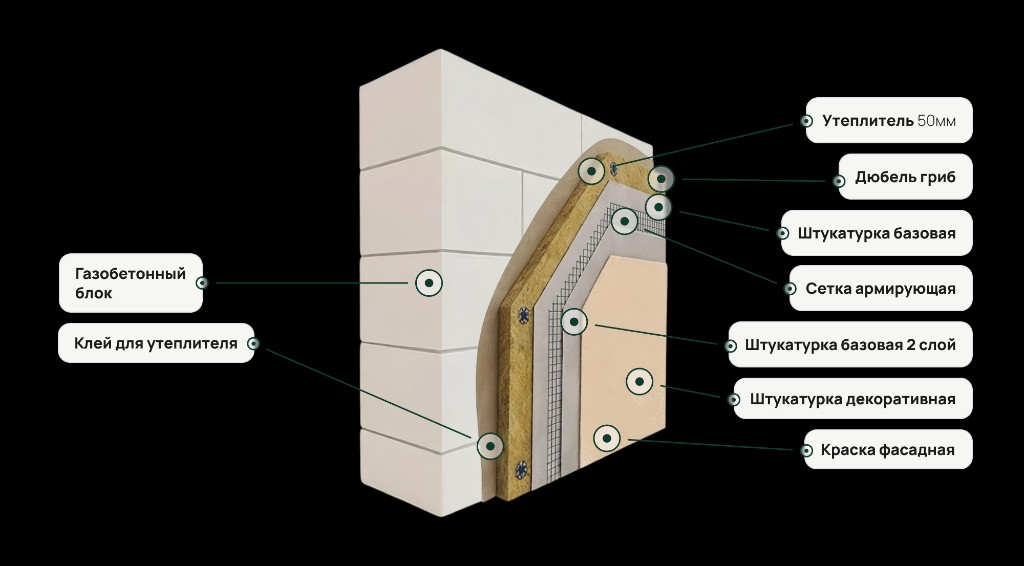
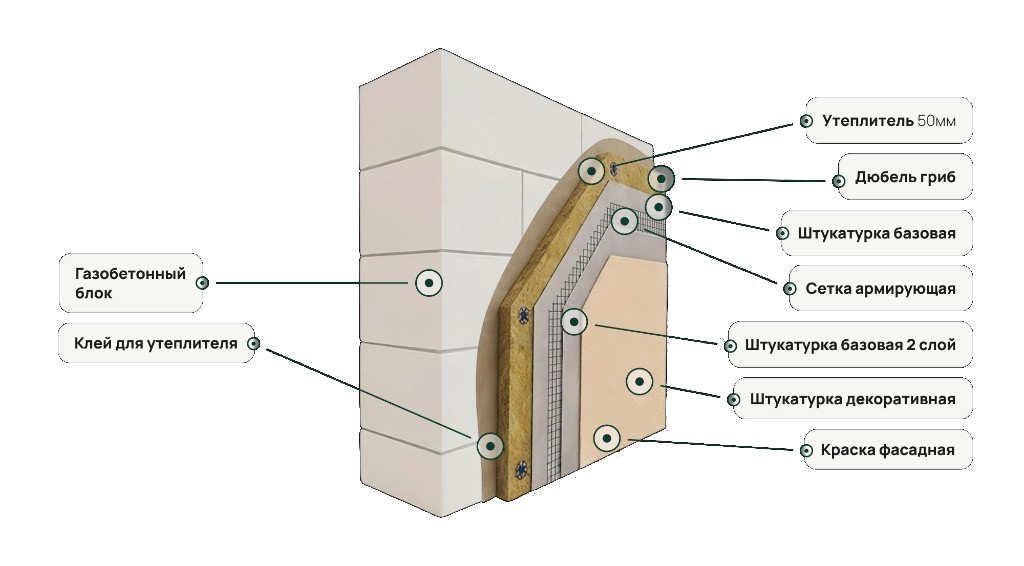
fix: enlarge calculator diagrams and speed up home LCP
Show facade cutaways full-width with transparent backgrounds, and keep home LCP on the H1 by skipping font preload and competing image priority.

diff --git a/frontend/src/components/sections/banner.tsx b/frontend/src/components/sections/banner.tsx
@@ -19,7 +19,7 @@ import { useTheme } from "@/lib/theme-context";
 import { HOME_HERO_BANNER_ID } from "@/lib/site-anchors";
 import type { HomeHeroBanner } from "@/lib/home-hero-banner-schema";
 import { HOME_HERO_CTAS } from "@/lib/home-hero-first-screen";
-import { HOME_HERO_LCP_QUALITY, HOME_HERO_LCP_WIDTH } from "@/lib/home-hero-lcp";
+import { HOME_HERO_LCP_QUALITY, HOME_HERO_LCP_WIDTH, homeHeroCarouselImageLoading } from "@/lib/home-hero-lcp";
 import { buildImagePrefetchSrc } from "@/lib/image-loading";
 import { cn } from "@/lib/utils";
 
@@ -28,9 +28,9 @@ const BADGE_ICONS = [Award, Home, ShieldCheck, ClipboardCheck] as const;
 /** Едва заметная «стеклянная» обводка на тёмном баннере */
 const edgeGlass = "border border-white/[0.07]";
 
-/** Матовый фон как у промо-карточки справа: полупрозрачный + лёгкий blur. */
+/** Матовый фон как у промо-карточки справа: полупрозрачный, без blur (blur задерживает LCP H1). */
 const matteGlass =
-  "border border-white/[0.07] bg-black/58 shadow-[inset_0_1px_0_rgba(255,255,255,0.04),0_12px_40px_rgba(0,0,0,0.35)] backdrop-blur-sm";
+  "border border-white/[0.07] bg-black/58 shadow-[inset_0_1px_0_rgba(255,255,255,0.04),0_12px_40px_rgba(0,0,0,0.35)]";
 const matteGlassHover = "hover:border-white/15 hover:bg-black/68";
 
 /** Интервал автопрокрутки промо-карусели на баннере. */
@@ -244,7 +244,7 @@ export function BannerSection({
 
             <div
               className={cn(
-                "mt-4 grid max-w-2xl grid-cols-1 gap-2 rounded-2xl bg-black/30 p-1.5 shadow-lg shadow-black/20 backdrop-blur-sm min-[420px]:grid-cols-3 min-[420px]:gap-1.5 sm:gap-2 sm:p-1.5",
+                "mt-4 grid max-w-2xl grid-cols-1 gap-2 rounded-2xl bg-black/30 p-1.5 shadow-lg shadow-black/20 min-[420px]:grid-cols-3 min-[420px]:gap-1.5 sm:gap-2 sm:p-1.5",
                 edgeGlass,
               )}
             >
@@ -291,7 +291,7 @@ export function BannerSection({
                 }
               }}
               className={cn(
-                "rounded-2xl bg-black/58 shadow-[0_24px_72px_rgba(0,0,0,0.42),inset_0_1px_0_rgba(255,255,255,0.04)] backdrop-blur-sm outline-none focus-visible:ring-2 focus-visible:ring-white/15 focus-visible:ring-offset-2 focus-visible:ring-offset-transparent sm:rounded-[1.25rem]",
+                "rounded-2xl bg-black/58 shadow-[0_24px_72px_rgba(0,0,0,0.42),inset_0_1px_0_rgba(255,255,255,0.04)] outline-none focus-visible:ring-2 focus-visible:ring-white/15 focus-visible:ring-offset-2 focus-visible:ring-offset-transparent sm:rounded-[1.25rem]",
                 edgeGlass,
               )}
             >
@@ -335,6 +335,7 @@ export function BannerSection({
                         index === (slideIndex - 1 + promos.length) % promos.length;
                       // Не монтируем дальние слайды — иначе на 4G качаются все промо сразу.
                       if (!isActive && !isAdjacent) return null;
+                      const imageLoading = homeHeroCarouselImageLoading(isActive);
                       return (
                         <CmsImage
                           key={promo.image}
@@ -343,9 +344,9 @@ export function BannerSection({
                           fill
                           quality={75}
                           sizes="(max-width: 1023px) 96vw, 380px"
-                          priority={isActive}
-                          fetchPriority={isActive ? "high" : "low"}
-                          loading={isActive ? "eager" : "lazy"}
+                          priority={imageLoading.priority}
+                          fetchPriority={imageLoading.fetchPriority}
+                          loading={imageLoading.loading}
                           aria-hidden={!isActive}
                           className={cn(
                             "object-cover object-center transition-opacity duration-500 ease-out",
@@ -365,7 +366,7 @@ export function BannerSection({
             >
               <div
                 className={cn(
-                  "flex shrink-0 items-center gap-2 rounded-full bg-black/48 px-2 py-1.5 backdrop-blur-sm sm:gap-3 sm:px-3 sm:py-2",
+                  "flex shrink-0 items-center gap-2 rounded-full bg-black/48 px-2 py-1.5 sm:gap-3 sm:px-3 sm:py-2",
                   edgeGlass,
                 )}
               >
@@ -402,7 +403,7 @@ export function BannerSection({
             <div
               key={text}
               className={cn(
-                "flex min-h-[44px] min-w-0 items-center gap-2.5 overflow-hidden rounded-xl bg-black/35 px-3 py-2 shadow-md shadow-black/25 backdrop-blur-sm sm:min-h-[48px] sm:gap-3 sm:px-3.5 sm:py-2.5",
+                "flex min-h-[44px] min-w-0 items-center gap-2.5 overflow-hidden rounded-xl bg-black/35 px-3 py-2 shadow-md shadow-black/25 sm:min-h-[48px] sm:gap-3 sm:px-3.5 sm:py-2.5",
                 edgeGlass,
               )}
             >

diff --git a/frontend/src/components/sections/projects-constructor-section.tsx b/frontend/src/components/sections/projects-constructor-section.tsx
@@ -11,6 +11,9 @@ import {
   HOME_MATERIALS_SECTION_EYEBROW,
   HOME_MATERIALS_SECTION_SUBTITLE,
   HOME_MATERIALS_SECTION_TITLE,
+  HOME_MATERIAL_CARD_IMAGE_PRIORITY,
+  HOME_MATERIAL_CARD_IMAGE_QUALITY,
+  HOME_MATERIAL_CARD_IMAGE_SIZES,
   HOME_MATERIAL_CARDS,
 } from "@/lib/home-materials-section";
 import { useHouseConstructionCalculatorConfig } from "@/lib/use-house-construction-calculator-config";
@@ -175,7 +178,7 @@ export function ProjectsConstructorSection() {
         </div>
 
         <div className="grid gap-5 sm:grid-cols-2 sm:gap-4 lg:grid-cols-3 lg:gap-5">
-          {materialCards.map((card, i) => (
+          {materialCards.map((card) => (
             <article
               key={card.id}
               className={cn(
@@ -188,9 +191,10 @@ export function ProjectsConstructorSection() {
                   src={card.image}
                   alt={card.title}
                   fill
-                  sizes="(max-width: 640px) 100vw, (max-width: 1024px) 50vw, 560px"
+                  sizes={HOME_MATERIAL_CARD_IMAGE_SIZES}
+                  quality={HOME_MATERIAL_CARD_IMAGE_QUALITY}
                   className="object-contain object-center transition duration-700 ease-out hover:scale-[1.02]"
-                  priority={i === 0}
+                  priority={HOME_MATERIAL_CARD_IMAGE_PRIORITY}
                 />
                 <div
                   className="pointer-events-none absolute inset-x-0 bottom-0 h-2/5 bg-gradient-to-t from-black/45 to-transparent"

diff --git a/frontend/src/components/construction/project-calculator-catalog-options.tsx b/frontend/src/components/construction/project-calculator-catalog-options.tsx
@@ -340,7 +340,9 @@ function OptionWorkScope({
       <div
         className={cn(
           "grid gap-2.5 sm:items-start sm:gap-4",
-          src ? "grid-cols-1 sm:grid-cols-[minmax(120px,160px)_minmax(0,1fr)]" : "grid-cols-1",
+          src && !isDiagram
+            ? "grid-cols-1 sm:grid-cols-[minmax(120px,160px)_minmax(0,1fr)]"
+            : "grid-cols-1",
         )}
       >
         {src ? (
@@ -348,7 +350,7 @@ function OptionWorkScope({
             className={cn(
               "relative mx-auto w-full overflow-hidden rounded-lg sm:mx-0",
               isDiagram
-                ? "aspect-[4/3] max-w-[280px] bg-transparent sm:aspect-square sm:max-w-none"
+                ? "aspect-[1024/566] max-w-none bg-transparent sm:aspect-[1024/566]"
                 : "aspect-[4/3] max-w-[280px] bg-[var(--stone)] sm:max-w-none",
             )}
           >
@@ -358,7 +360,7 @@ function OptionWorkScope({
               fill
               unoptimized={isDiagram}
               className={cn(isDiagram ? "object-contain object-center" : "object-cover object-center")}
-              sizes="(max-width: 640px) 280px, 160px"
+              sizes={isDiagram ? "(max-width: 640px) 100vw, 640px" : "(max-width: 640px) 280px, 160px"}
             />
             {zoomable && !isDiagram ? (
               <button

diff --git a/frontend/src/lib/home-materials-section.test.ts b/frontend/src/lib/home-materials-section.test.ts
@@ -1,6 +1,9 @@
 import { describe, expect, it } from "vitest";
 
 import {
+  HOME_MATERIAL_CARD_IMAGE_PRIORITY,
+  HOME_MATERIAL_CARD_IMAGE_QUALITY,
+  HOME_MATERIAL_CARD_IMAGE_SIZES,
   HOME_MATERIALS_SECTION_SUBTITLE,
   HOME_MATERIALS_SECTION_TITLE,
   HOME_MATERIAL_CARDS,
@@ -50,5 +53,13 @@ describe("home-materials-section", () => {
     const descriptions = HOME_MATERIAL_CARDS.map((c) => c.description);
     expect(new Set(descriptions).size).toBe(3);
     expect(HOME_MATERIAL_CARDS[2]?.description).toContain("2.1 НФ");
+  });
+
+  it("фото карточек не competing LCP: без priority, q=60, sizes под колонку", () => {
+    expect(HOME_MATERIAL_CARD_IMAGE_PRIORITY).toBe(false);
+    expect(HOME_MATERIAL_CARD_IMAGE_QUALITY).toBe(60);
+    expect(HOME_MATERIAL_CARD_IMAGE_SIZES).toContain("92vw");
+    expect(HOME_MATERIAL_CARD_IMAGE_SIZES).not.toContain("100vw");
+    expect(HOME_MATERIAL_CARD_IMAGE_SIZES).toContain("380px");
   });
 });

diff --git a/frontend/src/lib/home-hero-lcp.test.ts b/frontend/src/lib/home-hero-lcp.test.ts
@@ -5,6 +5,7 @@ import {
   HOME_HERO_LCP_QUALITY,
   HOME_HERO_LCP_WIDTH,
   buildHomeHeroLcpPreloadHref,
+  homeHeroCarouselImageLoading,
 } from "@/lib/home-hero-lcp";
 
 describe("home-hero-lcp", () => {
@@ -14,5 +15,18 @@ describe("home-hero-lcp", () => {
     expect(buildHomeHeroLcpPreloadHref("/uploads/1_Post-mplljowr.webp")).toBe(
       buildNextImagePrefetchHref("/uploads/1_Post-mplljowr.webp", HOME_HERO_LCP_WIDTH, HOME_HERO_LCP_QUALITY),
     );
+  });
+
+  it("промо-карусель не ставит fetchPriority=high и не preload", () => {
+    expect(homeHeroCarouselImageLoading(true)).toEqual({
+      priority: false,
+      fetchPriority: "low",
+      loading: "eager",
+    });
+    expect(homeHeroCarouselImageLoading(false)).toEqual({
+      priority: false,
+      fetchPriority: "low",
+      loading: "lazy",
+    });
   });
 });

diff --git a/frontend/src/lib/fonts-config.ts b/frontend/src/lib/fonts-config.ts
@@ -4,5 +4,8 @@ export const MONTSERRAT_WEIGHTS = ["400", "700"] as const;
 /** swap: Montserrat применяется сразу после загрузки, без «залипания» на системном. */
 export const MONTSERRAT_DISPLAY = "swap" as const;
 
-/** true: preload woff2, чтобы бренд-шрифт успевал на первом экране. */
-export const MONTSERRAT_PRELOAD = true as const;
+/**
+ * false: не preload woff2 (~68 KiB). LCP главной — H1-текст; preload ставит шрифт
+ * на критический путь и задерживает отрисовку заголовка на медленном 4G.
+ */
+export const MONTSERRAT_PRELOAD = false as const;

diff --git a/frontend/src/lib/home-hero-lcp.ts b/frontend/src/lib/home-hero-lcp.ts
@@ -10,3 +10,19 @@ export const HOME_HERO_LCP_QUALITY = 60;
 export function buildHomeHeroLcpPreloadHref(lightBackgroundSrc: string): string {
   return buildImagePrefetchSrc(lightBackgroundSrc, HOME_HERO_LCP_WIDTH, HOME_HERO_LCP_QUALITY);
 }
+
+/**
+ * Промо-карусель не competing LCP: high только у фона баннера.
+ * Активный слайд eager, остальные lazy — без preload в `<head>`.
+ */
+export function homeHeroCarouselImageLoading(isActive: boolean): {
+  priority: false;
+  fetchPriority: "low";
+  loading: "eager" | "lazy";
+} {
+  return {
+    priority: false,
+    fetchPriority: "low",
+    loading: isActive ? "eager" : "lazy",
+  };
+}

diff --git a/frontend/src/lib/home-materials-section.ts b/frontend/src/lib/home-materials-section.ts
@@ -26,6 +26,12 @@ export type HomeMaterialCardContent = {
   completionHref: `/projects/${HomeMaterialId}#material-included`;
 };
 
+/** Карточки ниже первого экрана: без priority, иначе газобетон competing LCP баннера. */
+export const HOME_MATERIAL_CARD_IMAGE_PRIORITY = false;
+export const HOME_MATERIAL_CARD_IMAGE_QUALITY = 60;
+export const HOME_MATERIAL_CARD_IMAGE_SIZES =
+  "(max-width: 640px) 92vw, (max-width: 1024px) 46vw, 380px";
+
 export const HOME_MATERIAL_CARDS: HomeMaterialCardContent[] = [
   {
     id: "gazobeton",

diff --git a/frontend/src/lib/fonts.test.ts b/frontend/src/lib/fonts.test.ts
@@ -12,8 +12,8 @@ describe("fonts", () => {
     expect(MONTSERRAT_WEIGHTS).not.toContain("500");
   });
 
-  it("Montserrat с display=swap и preload — бренд на первом экране", () => {
+  it("Montserrat с display=swap без preload — LCP H1 не ждёт woff2", () => {
     expect(MONTSERRAT_DISPLAY).toBe("swap");
-    expect(MONTSERRAT_PRELOAD).toBe(true);
+    expect(MONTSERRAT_PRELOAD).toBe(false);
   });
 });

diff --git a/frontend/src/lib/fonts.ts b/frontend/src/lib/fonts.ts
@@ -9,7 +9,7 @@ export const montserrat = Montserrat({
   subsets: ["latin", "cyrillic"],
   weight: ["400", "700"],
   display: "swap",
-  preload: true,
+  preload: false,
   variable: "--font-montserrat",
   adjustFontFallback: true,
 });
